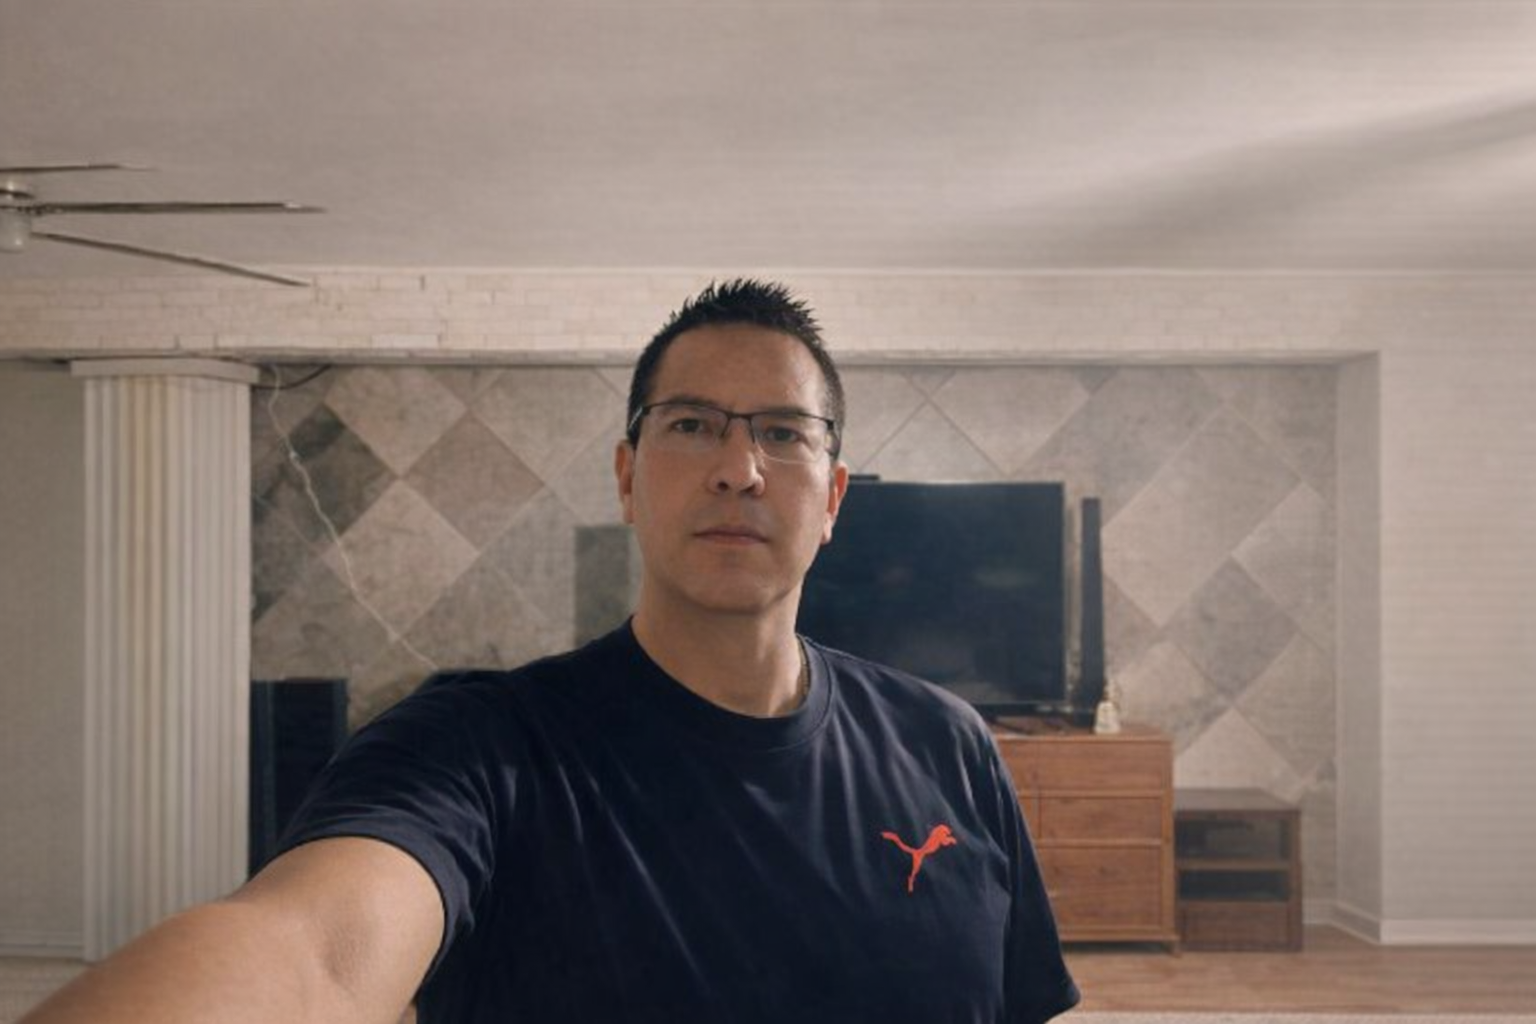
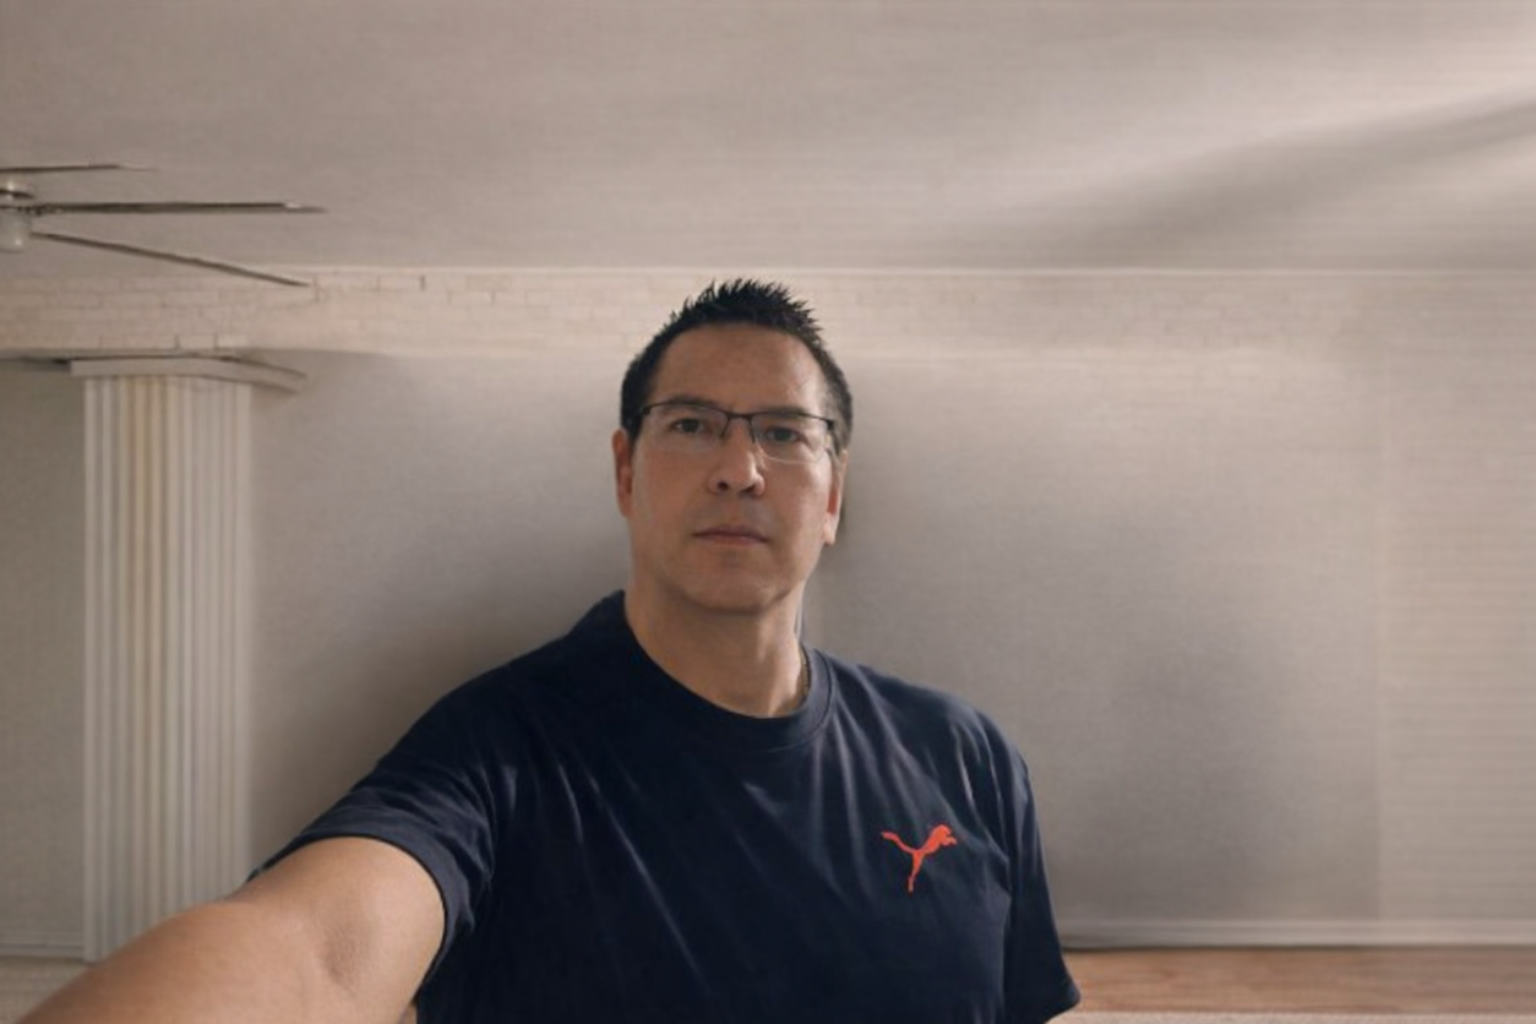
actualizo foto de perfil

Changed region(s): [[0.5, 0.3438, 0.9062, 0.9375], [0.1562, 0.3125, 0.4375, 0.875]]

diff --git a/README.md b/README.md
@@ -1,0 +1,24 @@
+## Portafolio — German Gallo
+Este repositorio contiene mi portafolio como desarrollador web, con proyectos que integran arquitectura modular, herramientas avanzadas y tecnologías modernas como Electron, Node.js y Monaco Editor.
+
+## 🛠️ Tecnologías principales
+- Frontend: HTML, CSS, JavaScript
+- Backend / Runtime: Node.js
+- Aplicaciones de escritorio: Electron
+- Editor embebido: Monaco Editor
+- Metodologías: BEM, POO
+- Control de versiones: Git y GitHub
+
+## 📂 Proyectos incluidos
+# 🔹 estructura-proyectos-app
+Generador de estructuras de carpetas y archivos basado en indentación.
+Construido con Electron, Node.js y Monaco Editor. Permite crear proyectos completos de forma automática a partir de un esquema escrito por el usuario.
+# 🔹 Project_web_cultures
+Aplicación web modular para gestionar tarjetas e información de usuario.
+Desarrollada con HTML, CSS, JS, arquitectura orientada a objetos y estilos organizados con BEM.
+
+## 📌 Objetivo del portafolio
+Mostrar mis habilidades técnicas mediante proyectos reales que integran desarrollo web, arquitectura modular, aplicaciones de escritorio y buenas prácticas de organización.
+
+📬 Contacto
[email redacted]